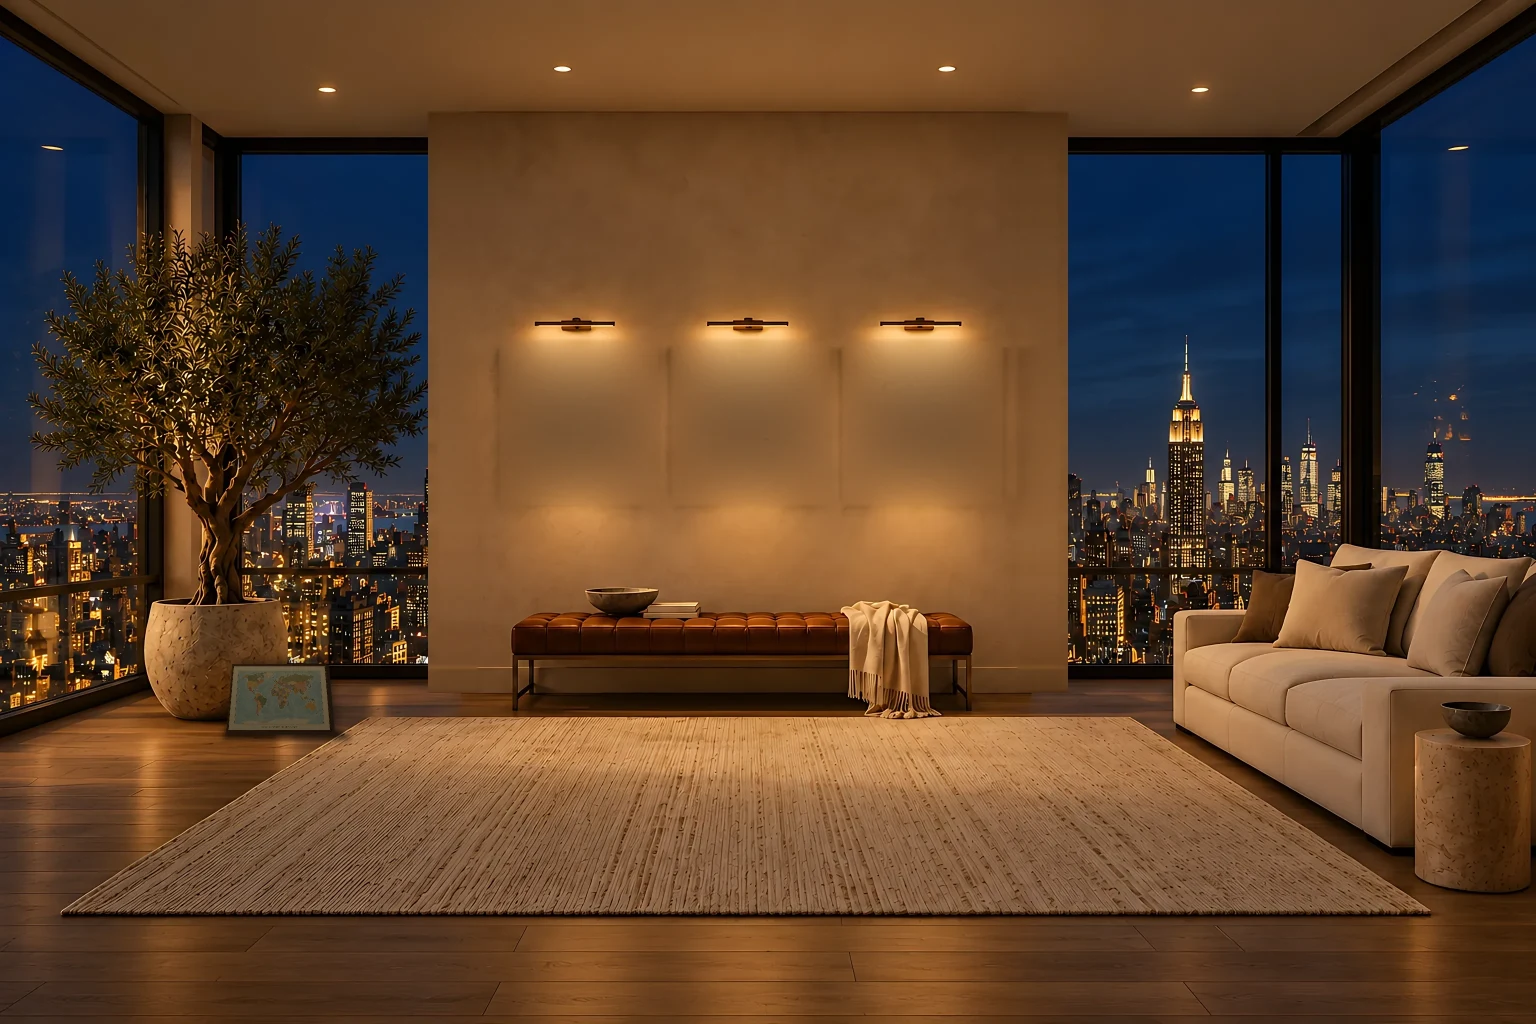
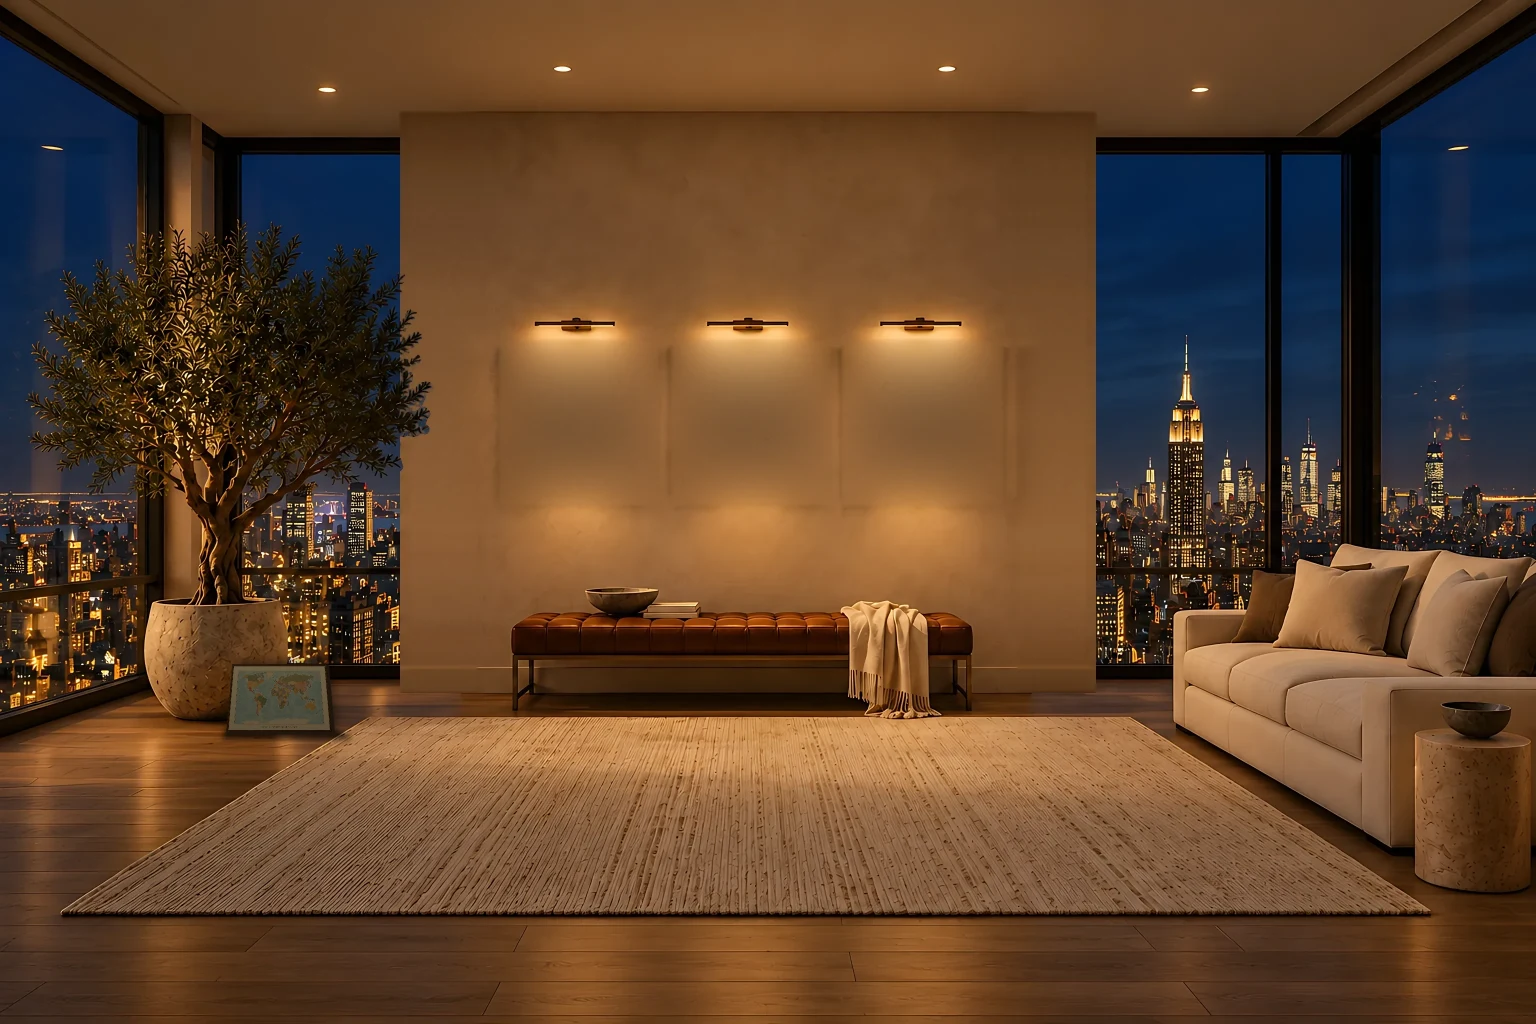
Revert "Home: olive leaves no longer spill onto the wall; more natural breeze (#8)"
Femi asked to go back to the earlier version: wall x 400-1096, the previous
tree assets and breeze. This reverts merge f9fd9ed.

Claude-Session: https://claude.ai/code/session_01Q2iX8U4MkKUcYxVfpZrcab

Changed region(s): [[0.6875, 0.125, 0.7188, 0.6875], [0.25, 0.125, 0.2812, 0.6875]]

diff --git a/src/components/room/RoomTree.tsx b/src/components/room/RoomTree.tsx
@@ -4,7 +4,7 @@ import { ROOM_BASE, TREE_BOX } from '@/content/scene'
 
 /**
  * A breeze through the olive tree, cinemagraph-style: the canopy (cut from the room in each light, docs/asset-lock/scripts/tree.py)
- * is redrawn in WebGL: a slight sway of the crown with leaves trembling in clusters and singly, catching the light; the trunk base and planter stay still.
+ * is redrawn in WebGL with a gentle, height-weighted sway plus a little leaf flutter; the trunk base and planter stay still.
  * Underneath, the room with the tree painted out (only where leaves can move) so nothing doubles. The still room shows when
  * this is off: reduced motion, Save-Data, no WebGL, off-screen or a hidden tab.
  */
@@ -18,17 +18,12 @@ float n(vec2 q){ vec2 i = floor(q), f = fract(q); f = f * f * (3. - 2. * f);
 void main(){
   vec2 m = uv / px + vec2(0., 180.);                                  // master coordinates
   float lift = smoothstep(575., 300., m.y);                             // 0 at the trunk base, 1 in the crown
-  float reach = .6 + .4 * clamp(abs(m.x - 212.) / 190., 0., 1.);         // branch tips travel further
-  float gust = .6 + .4 * sin(t * .17) * sin(t * .11 + 1.3);
-  // a gentle sway of the whole crown (indoors, slight)...
-  float sway = 1.1 * sin(t * .55 + m.y * .009) + .5 * sin(t * 1.3 + m.x * .02 + m.y * .015);
-  // ...and leaves trembling independently: clusters (~15 px) and single leaves
-  float c1 = n(m * .065 + vec2(t * .45, t * .2)) - .5, c2 = n(m * .065 + vec2(-t * .3, t * .5) + 17.) - .5;
-  float l1 = n(m * .17 + vec2(t * 1.3, t * .8)) - .5, l2 = n(m * .17 + vec2(-t * .9, t * 1.2) + 31.) - .5;
-  vec2 d = (vec2(sway * gust * reach, .2 * sin(t * .9 + m.x * .02) * gust)
-          + gust * vec2(1.7 * c1 + .9 * l1, 1.2 * c2 + .7 * l2)) * lift;
+  float reach = .55 + .45 * clamp(abs(m.x - 212.) / 190., 0., 1.);       // branch tips travel further
+  float gust = .55 + .45 * sin(t * .21) * sin(t * .13 + 1.3);
+  float sway = 2.4 * sin(t * .74 + m.y * .011) + 1.05 * sin(t * 1.63 + m.x * .021 + m.y * .017);   // up to ~4.5 master px at the crown
+  float flut = n(m * .09 + vec2(t * .9, t * .4)) - .5;
+  vec2 d = vec2(sway * gust * reach + 1.4 * flut, .35 * sin(t * 1.1 + m.x * .02) * gust + .5 * (n(m * .11 - t * .7) - .5)) * lift;
   vec4 tr = texture2D(tree, uv - d * px);
-  tr.rgb *= 1. + .05 * lift * gust * (l1 + .6 * c1);                    // leaves catch the light as they turn
   vec4 b = texture2D(bg, uv);
   gl_FragColor = vec4(tr.rgb * tr.a + b.rgb * b.a * (1. - tr.a), tr.a + b.a * (1. - tr.a));   // premultiplied "over"
 }`

diff --git a/src/content/scene.ts b/src/content/scene.ts
@@ -62,7 +62,7 @@ export const MAP = {
 }
 
 /** The olive tree's canopy and trunk, down to the planter rim (RoomTree, docs/asset-lock/scripts/tree.py). */
-export const TREE_BOX: Rect = [0, 180, 428, 424]   // ends where the wall begins
+export const TREE_BOX: Rect = [0, 180, 460, 424]
 
 export const pct = (v: number, of: number) => `${(v / of) * 100}%`
 export const rectStyle = ([x, y, w, h]: Rect) => ({ left: pct(x, SCENE.w), top: pct(y, SCENE.h), width: pct(w, SCENE.w), height: pct(h, SCENE.h) })

diff --git a/docs/asset-lock/scripts/tree.py b/docs/asset-lock/scripts/tree.py
@@ -1,9 +1,9 @@
 """Olive tree for the wind shader (RoomTree): per light, a tree sprite (RGBA, leaves + branches + trunk above the pot)
 and a background patch (RGBA: the room with the tree removed, only within a few px of the tree) so moving leaves reveal
-window, not doubled leaves. Leaf matte from the morning light (geometry is shared). Box: master x 0-428, y 180-604."""
+window, not doubled leaves. Leaf matte from the morning light (geometry is shared). Box: master x 0-460, y 180-604."""
 import cv2, numpy as np, sys
 R, OUT = sys.argv[1:3]; S = 2
-X0, Y0, X1, Y1 = 0, 180, 428, 604                  # stops where the wall begins (x 428): the moving tree never draws on the plaster
+X0, Y0, X1, Y1 = 0, 180, 460, 604
 tree = cv2.imread(R + '/masks/tree.png', 0)
 mo = cv2.imread(R + '/morning-3072.webp').astype(np.float32)
 lum = mo @ np.array([.114, .587, .299], np.float32)
@@ -24,8 +24,6 @@ zone = cv2.resize((cv2.dilate(tree, np.ones((5, 5), np.uint8)) > 0).astype(np.ui
 zone = cv2.GaussianBlur(zone.astype(np.float32), (0, 0), 6)       # soft zone edge, no blocky cut-outs
 a = leaf * np.clip(zone * 1.5, 0, 1)
 a[(Y1 - 6) * S:] = 0                                              # stop above the pot rim (the pot stays put)
-xs = np.arange(a.shape[1], dtype=np.float32)[None, :] / S
-a *= np.clip((424 - xs) / 4, 0, 1)                                # and fade out before the wall edge
 a = cv2.GaussianBlur(a, (0, 0), .6)
 y0, y1, x0, x1 = Y0 * S, Y1 * S, X0 * S, X1 * S
 A = a[y0:y1, x0:x1]

diff --git a/docs/decision-log.md b/docs/decision-log.md
@@ -60,4 +60,3 @@ Newest last. Each entry records the decision, why it was made and what would rev
 | DL-53 | 2026-10-15 | 5 | **Résumé available on request, behind a passcode.** `/resume` carries no résumé content until a server action accepts the passcode. The repo stores only a salted scrypt hash, never the passcode, and `RESUME_PASSCODE` in the hosting environment can replace it. Wrong attempts are slowed. Unlock lasts for the browser tab. The page is `noindex`, with a "Request access" email. The public-PDF shortcut on Home is removed, so the Home strip links to `/resume`. A résumé PDF must never go in `public/`. | Femi: "put the resume behind a pass, it should be available upon request" | — |
 | DL-54 | 2026-10-15 | 5 | **Request access opens a form** (full name, email, phone; all required; honeypot for bots). It's delivered to femi@femifalade.com by **FormSubmit** (formsubmit.co: no account or key; the first submission triggers a one-time activation email). The subject is "Resume request from [name]", with reply-to set to the requester. A mailto fallback appears on failure. Separately, **"Résumé" becomes "Resume" site-wide.** | Femi: the request should be a form with name, email and phone sent to his email; remove the accents | Femi prefers another email service (e.g. Resend with an API key) |
 | DL-55 | 2026-10-15 | 6 | The light selector shows only the New York clock as a time. The options are **Morning, Afternoon, Night**, with no hour ranges, and "Golden hour" is renamed **Afternoon**. The internal light id stays `golden`, so assets and saved choices are unchanged. | Femi: "Only keep the current time in NYC… call golden hour 'afternoon'" | — |
-| DL-56 | 2026-10-20 | 7 | The wall is narrowed symmetrically to **x 428–1068**, so the olive's leaf tips (~420) stay in front of the window. The tree layer is confined to x < 428. The breeze becomes mostly leaf-level flutter, with a much smaller crown sway. | Femi: the tree "does not look hyper realistic enough and its leaves spill into the background of the wall" (docs/qa/tree-v2) | — |
